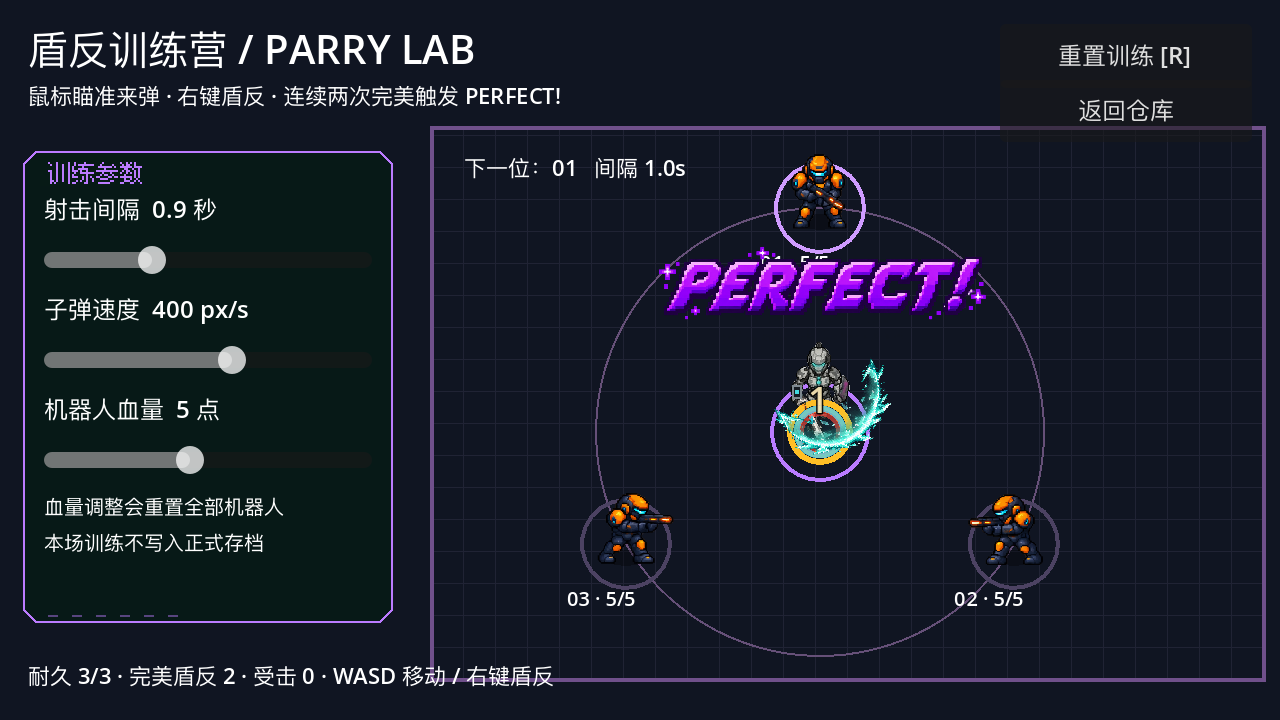
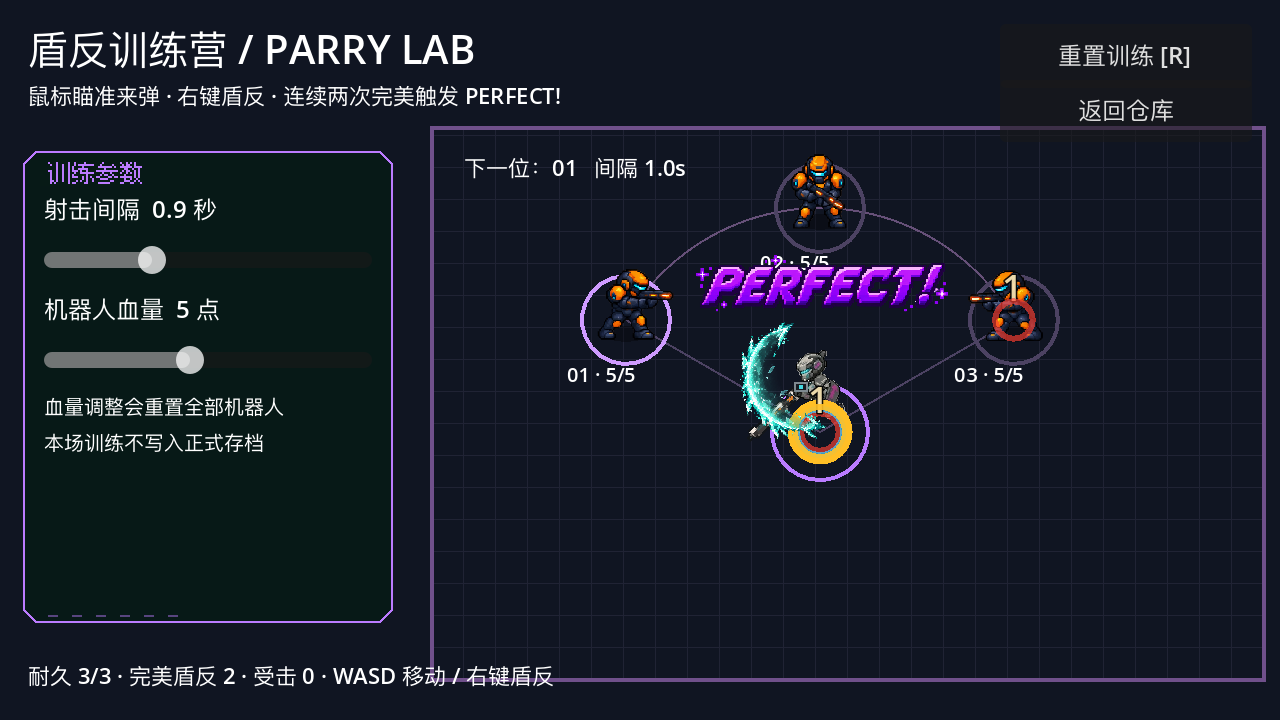
feat: 训练机器人改为前方扇形并固定弹速

diff --git a/docs/technical/盾反训练营与连续完美反馈.md b/docs/technical/盾反训练营与连续完美反馈.md
@@ -2,17 +2,16 @@
 
 ## 玩家入口与操作
 
-仓库上方中间的「盾反训练营」通道（270,100），靠近按 E 进入。玩家位于环心，三只静止的远程机器人环形排列，默认各 3 点血，按照 01→02→03→01 顺序每隔 0.9 秒发射一颗子弹。死亡的机器人自动跳过；全部击败后按 R 重新练习。
+仓库上方中间的「盾反训练营」通道（270,100），靠近按 E 进入。玩家位于扇形顶点，三只静止的远程机器人在玩家前方 120° 扇形弧上排列，默认各 3 点血，按照 01→02→03→01 顺序每隔 0.9 秒发射一颗子弹。死亡的机器人自动跳过；全部击败后按 R 重新练习。
 
 右键朝向来弹进行盾反，WASD 移动。左侧参数滑块立即生效：
 
 | 参数 | 默认值 | 调整范围 |
 | --- | --- | --- |
 | 射击间隔 | 0.9 秒 | 0.4–2.0 秒，步长 0.1 |
-| 子弹速度 | 260 px/s | 120–600 px/s，步长 20 |
 | 机器人血量 | 3 点 | 1–10 点，步长 1 |
 
-修改参数清理旧子弹并重新计时；修改血量会重建全部机器人。鼠标位于参数面板上或拖动滑块时暂停新发射，防止操作参数时继续刷出攻击。R 或「重置训练」重新加载训练营，恢复玩家、机器人和统计，保留当前三项参数。「返回仓库」通过现有场景切换回到仓库。
+子弹速度固定为 260 px/s，不提供弹速滑块。修改参数清理旧子弹并重新计时；修改血量会重建全部机器人。鼠标位于参数面板上或拖动滑块时暂停新发射，防止操作参数时继续刷出攻击。R 或「重置训练」重新加载训练营，恢复玩家、机器人和统计，保留当前两项参数。「返回仓库」通过现有场景切换回到仓库。
 
 训练使用独立临时战斗，进入前保存仓库配装；训练中的击杀、受伤、死亡和重置不结算到正式存档。训练参数只在这次训练及其 R 重置中保留。
 

diff --git a/tests/README.md b/tests/README.md
@@ -158,4 +158,4 @@ godot --headless --path . --script res://tests/integration/boss_shortcut_check.g
 
 盾兵飞行屏障与远程配合：`godot --headless --path . --script res://tests/integration/shield_support_check.gd`，61 项覆盖四方向、独立移动、墙体、干净身体、初始冷却、提前一秒跑位及友伤。带窗口追加 `-- --capture` 输出四方向截图。
 
-盾反训练营：`godot --headless --path . --script tests/integration/parry_training_check.gd`，覆盖仓库入口、三只环形机器人、顺序单发、三个参数滑块、死亡跳过、真实弹道反射、连续两次 PERFECT! 与断连、真实 R 重置及参数保留、暂停和正式存档隔离。非 headless 追加 `-- --capture` 可生成训练营截图。
+盾反训练营：`godot --headless --path . --script tests/integration/parry_training_check.gd`，覆盖仓库入口、三只前方扇形机器人、顺序单发、血量与间隔滑块、固定弹速、死亡跳过、真实弹道反射、连续两次 PERFECT! 与断连、真实 R 重置及参数保留、暂停和正式存档隔离。非 headless 追加 `-- --capture` 可生成训练营截图。

diff --git a/docs/AI_USAGE.md b/docs/AI_USAGE.md
@@ -119,3 +119,9 @@
 ## 2026-10-21 — Grow PERFECT! up to its existing size
 
 - User requested small-to-large animation with the existing size as the maximum. Changed popup scaling from an overshoot-and-settle pop to a 0.22-second eased growth from 15% to 100%, capped at the existing 156-pixel width. Retained the existing 0.7-second display and fade.
+
+## 2026-10-21 — Forward fan formation and fixed training projectile speed
+
+- User requested fan placement and explicitly clarified that bullet speed should be fixed with its slider removed. Three stationary robots now occupy the player's forward 120-degree arc; the floor guide uses the same fan geometry.
+- Removed speed from sliders and reset payloads; every training projectile uses the fixed 260 px/s constant. Interval and robot HP remain adjustable. Updated the existing integration assertions, player instructions and runtime screenshot.
+- Headless and rendered training checks both pass 50/50, including actual reflected hits on all three shooters, fixed projectile speed, removed speed control and R reset. Existing exit-time resource warnings remain.
